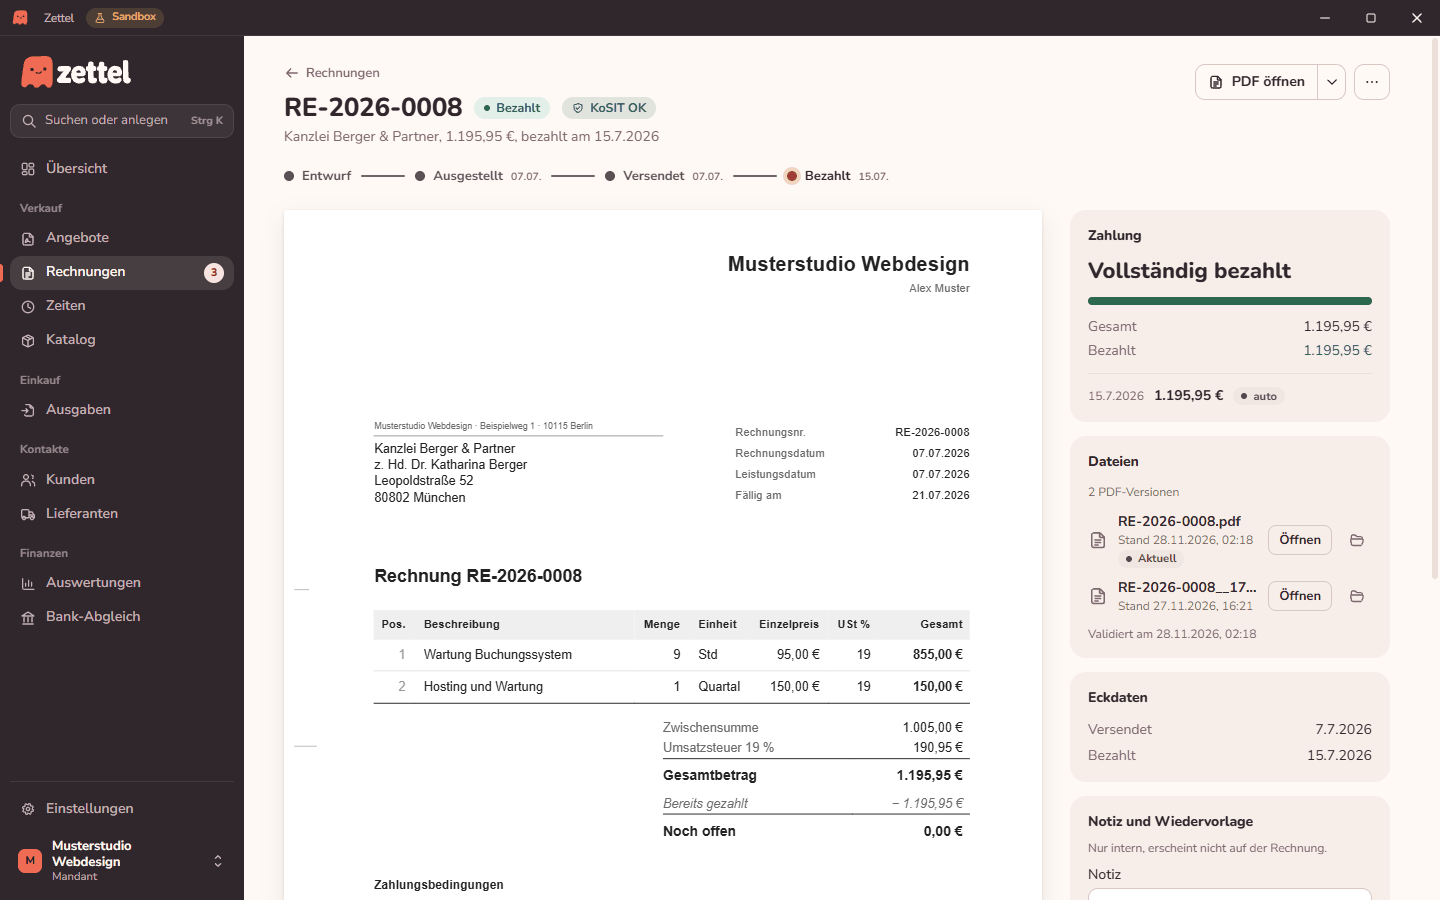
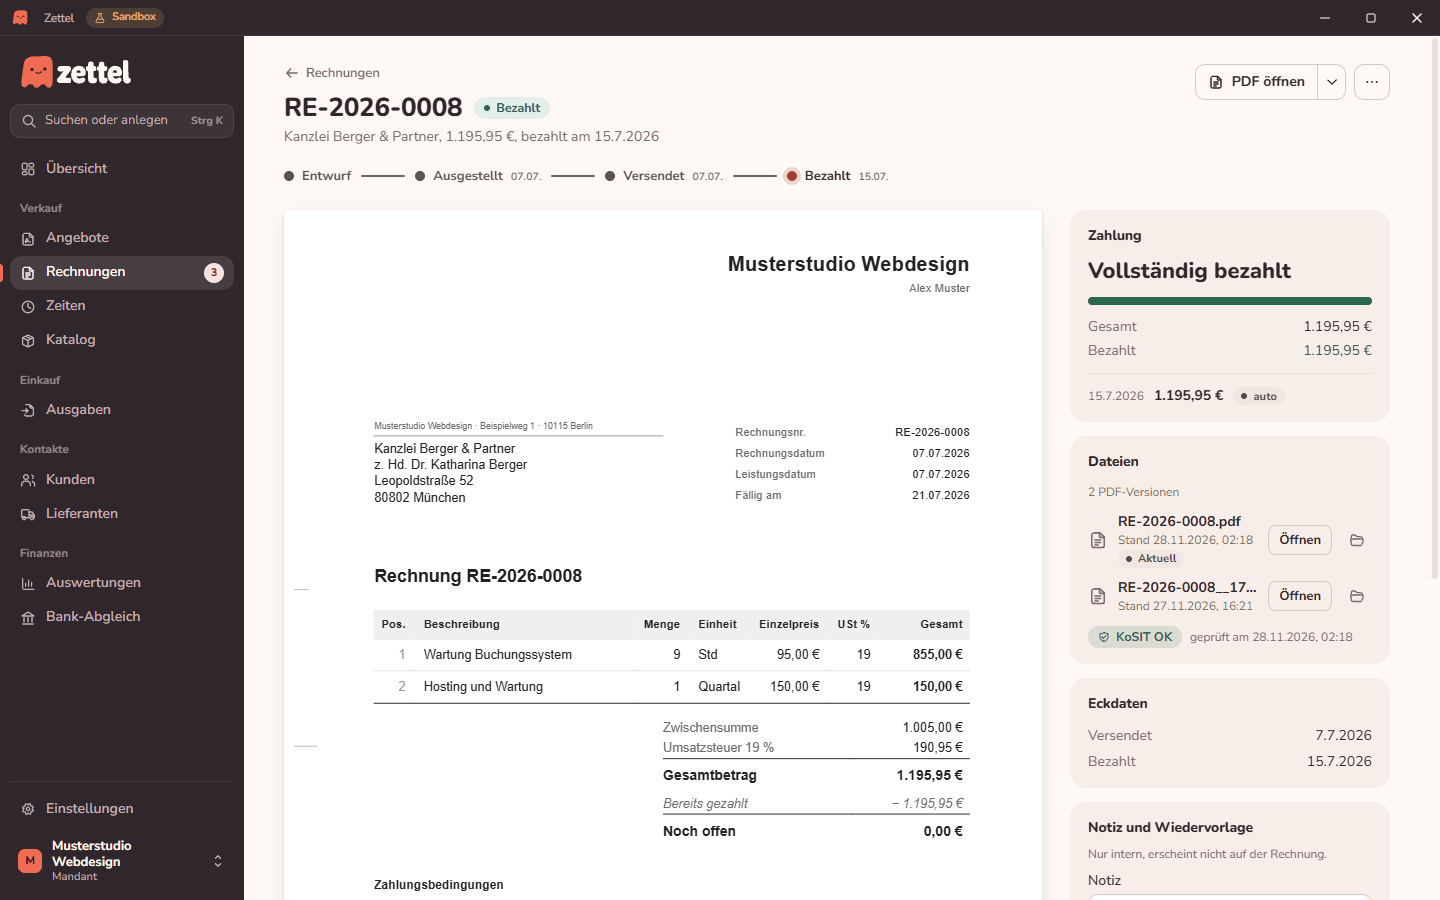
docs(screenshots): retake the invoice page, the expense list and the tour
The invoice header and the expense toolbar changed after the first retake. The category select is 160 px wide so the search placeholder is not cut off at 1440 px.

diff --git a/src/routes/ExpensesList.svelte b/src/routes/ExpensesList.svelte
@@ -187,7 +187,7 @@
   customers={vendors}
   counterparty={VENDOR_COUNTERPARTY}
 >
-  <Select bind:value={f.category} items={categoryItems} aria-label="Kategorie" class="w-[180px]" />
+  <Select bind:value={f.category} items={categoryItems} aria-label="Kategorie" class="w-[160px]" />
 </DocumentListFilters>
 
 <QueryBoundary query={expenses} isEmpty={expenses.data.length === 0}>

diff --git a/README.md b/README.md
@@ -47,7 +47,7 @@ ZUGFeRD- / Factur-X-konforme PDF/A-3 mit eingebettetem EN-16931-XML und XRechnun
     <td align="center"><a href="./docs/screenshots/invoices.png"><img src="./docs/screenshots/invoices.png" alt="Rechnungsliste mit Status und Filtern" /></a><br /><sub>Rechnungen</sub></td>
   </tr>
   <tr>
-    <td align="center"><a href="./docs/screenshots/invoice-validated.png"><img src="./docs/screenshots/invoice-validated.png" alt="Rechnung als Blatt mit bestandener KoSIT-Prüfung (ZUGFeRD-konform), Zahlung und PDF-Versionen" /></a><br /><sub>KoSIT-geprüft</sub></td>
+    <td align="center"><a href="./docs/screenshots/invoice-validated.png"><img src="./docs/screenshots/invoice-validated.png" alt="Rechnung als Blatt, daneben Zahlung, PDF-Versionen und die bestandene KoSIT-Prüfung (ZUGFeRD-konform)" /></a><br /><sub>KoSIT-geprüft</sub></td>
     <td align="center"><a href="./docs/screenshots/pdf-preview.png"><img src="./docs/screenshots/pdf-preview.png" alt="Erzeugtes PDF/A-3 mit Girocode, Factur-X-XML eingebettet" /></a><br /><sub>PDF/A-3 + ZUGFeRD</sub></td>
   </tr>
   <tr>

diff --git a/docs/screenshots/README.md b/docs/screenshots/README.md
@@ -19,9 +19,9 @@ Das README bindet 3–6 starke Bilder ein. Vorhanden sind:
 |---|---|
 | `dashboard.png` | Übersicht (`/`) mit „Zu erledigen“, Gewinn, Einnahmen und Ausgaben, offenen Forderungen |
 | `invoices.png` | `/invoices` — Rechnungsliste mit Status und Filtern |
-| `invoice-validated.png` | Rechnungsseite mit dem Beleg als Blatt, bestandener KoSIT-Prüfung, Zahlung und PDF-Versionen |
+| `invoice-validated.png` | Rechnungsseite mit dem Beleg als Blatt; in der Seitenspalte Zahlung, PDF-Versionen und die bestandene KoSIT-Prüfung |
 | `pdf-preview.png` | generiertes PDF in einem Viewer mit sichtbaren ZUGFeRD-XML-Attachments |
-| `expenses.png` | `/expenses` — Ausgaben mit Lieferanten und Status |
+| `expenses.png` | `/expenses` — Ausgaben mit Lieferanten, Kategorie und Status |
 | `ustva.png` | UStVA-Vorbereitung (Auswertungen → UStVA) |
 | `zettel-demo.gif` | Rundgang durch die App (Übersicht, Rechnungen, geprüfte Rechnung als Blatt, Ausgaben, UStVA), 960×600 |
 
